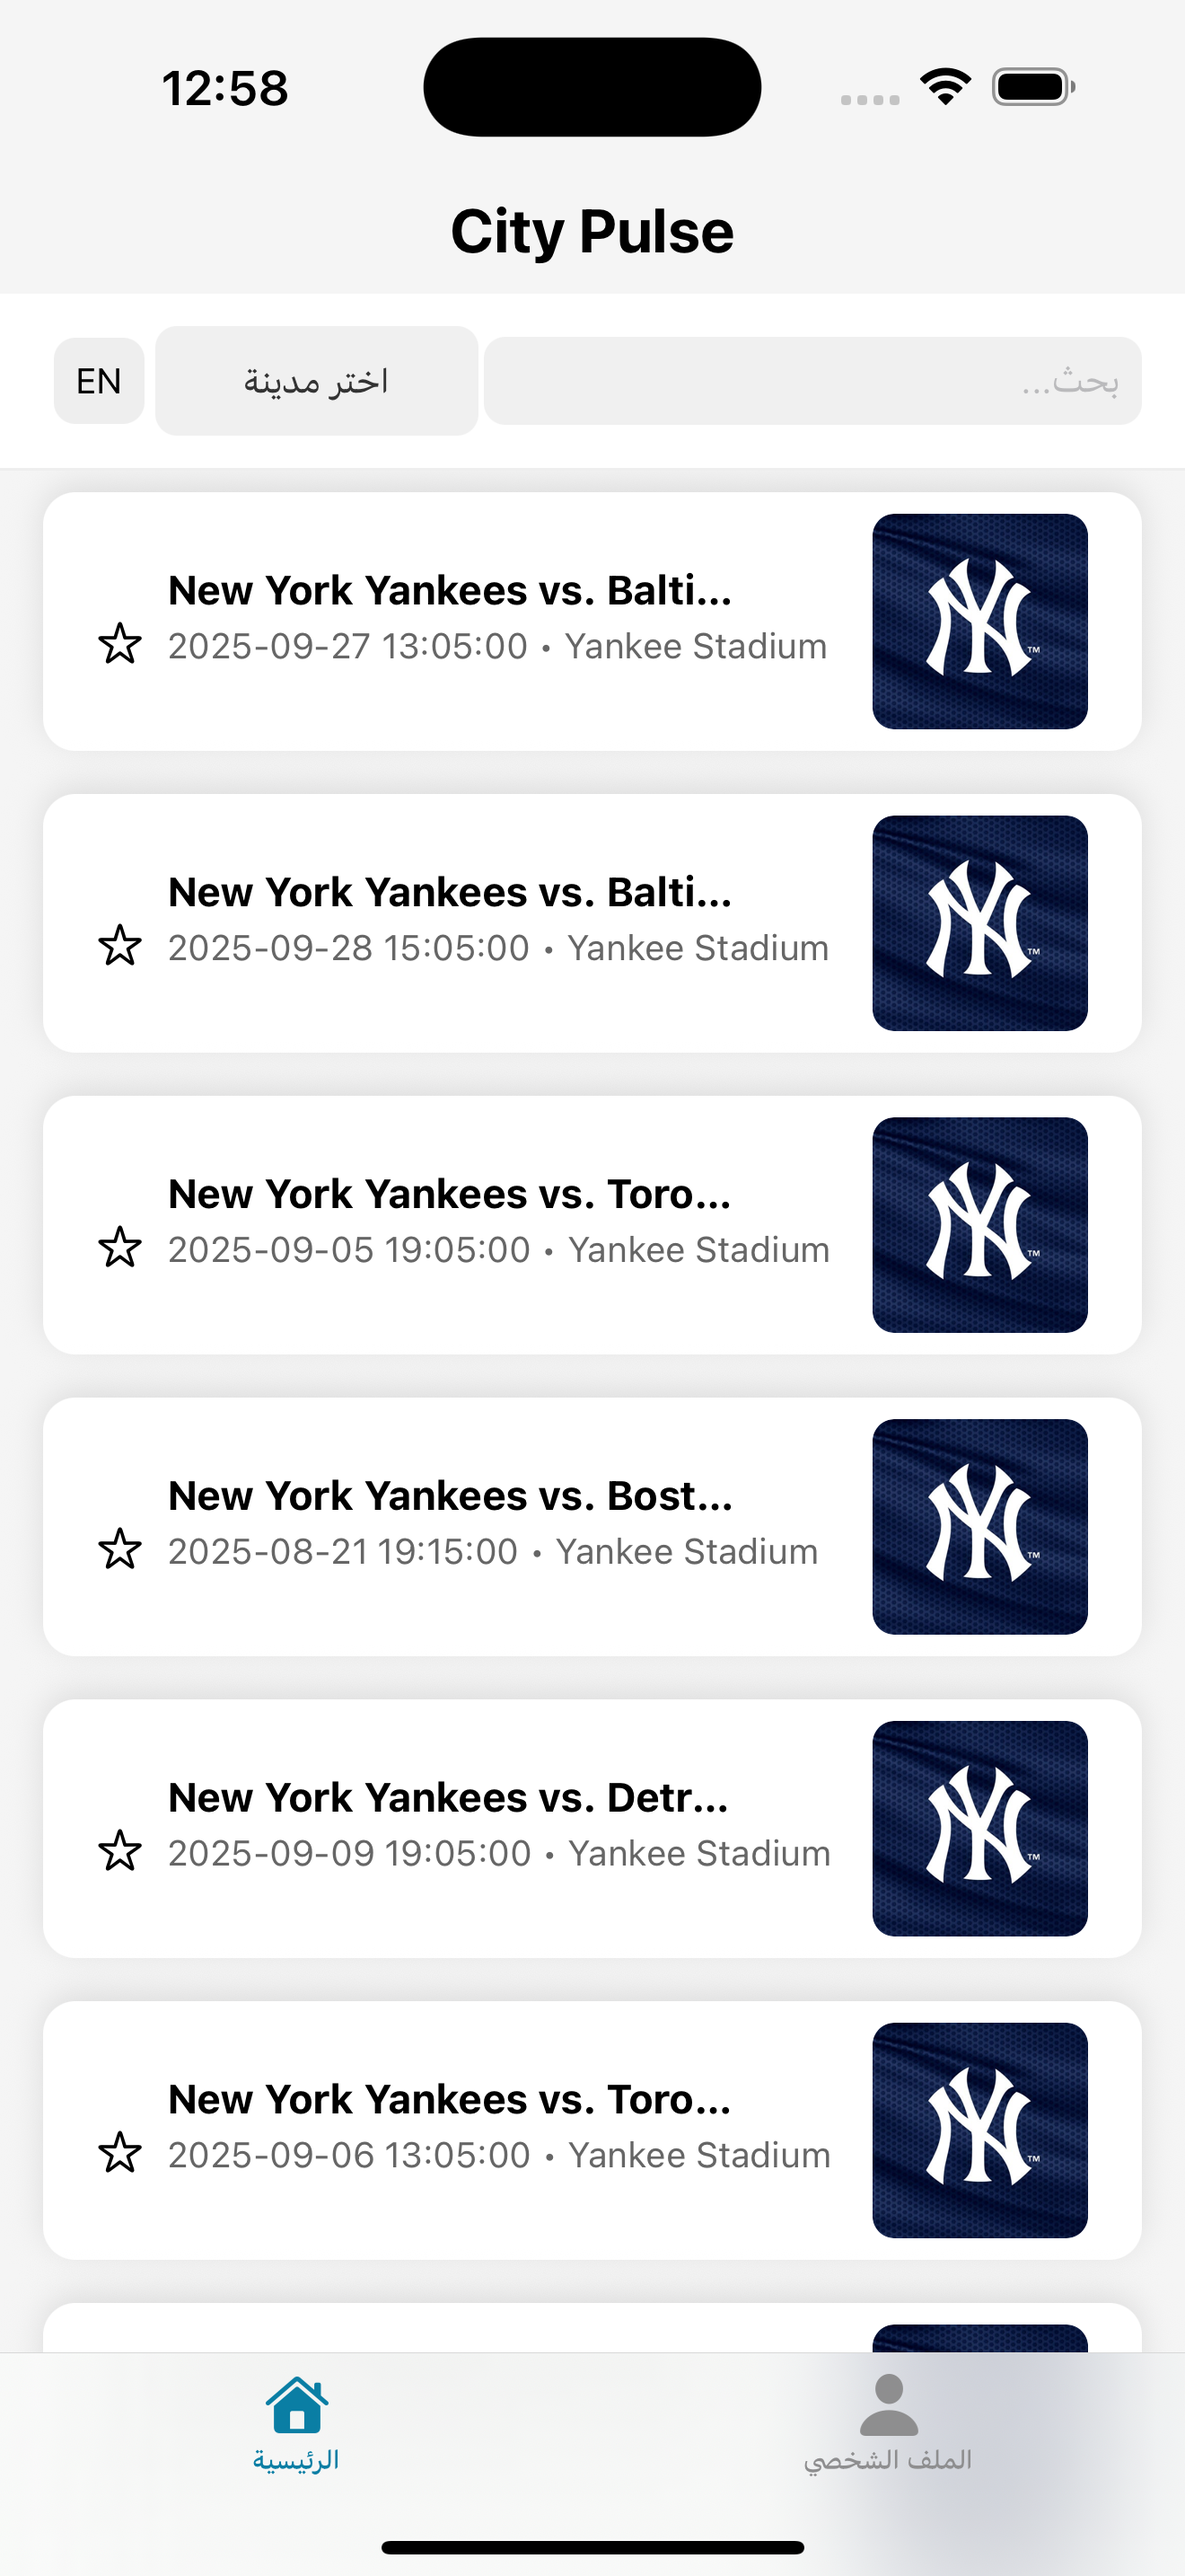
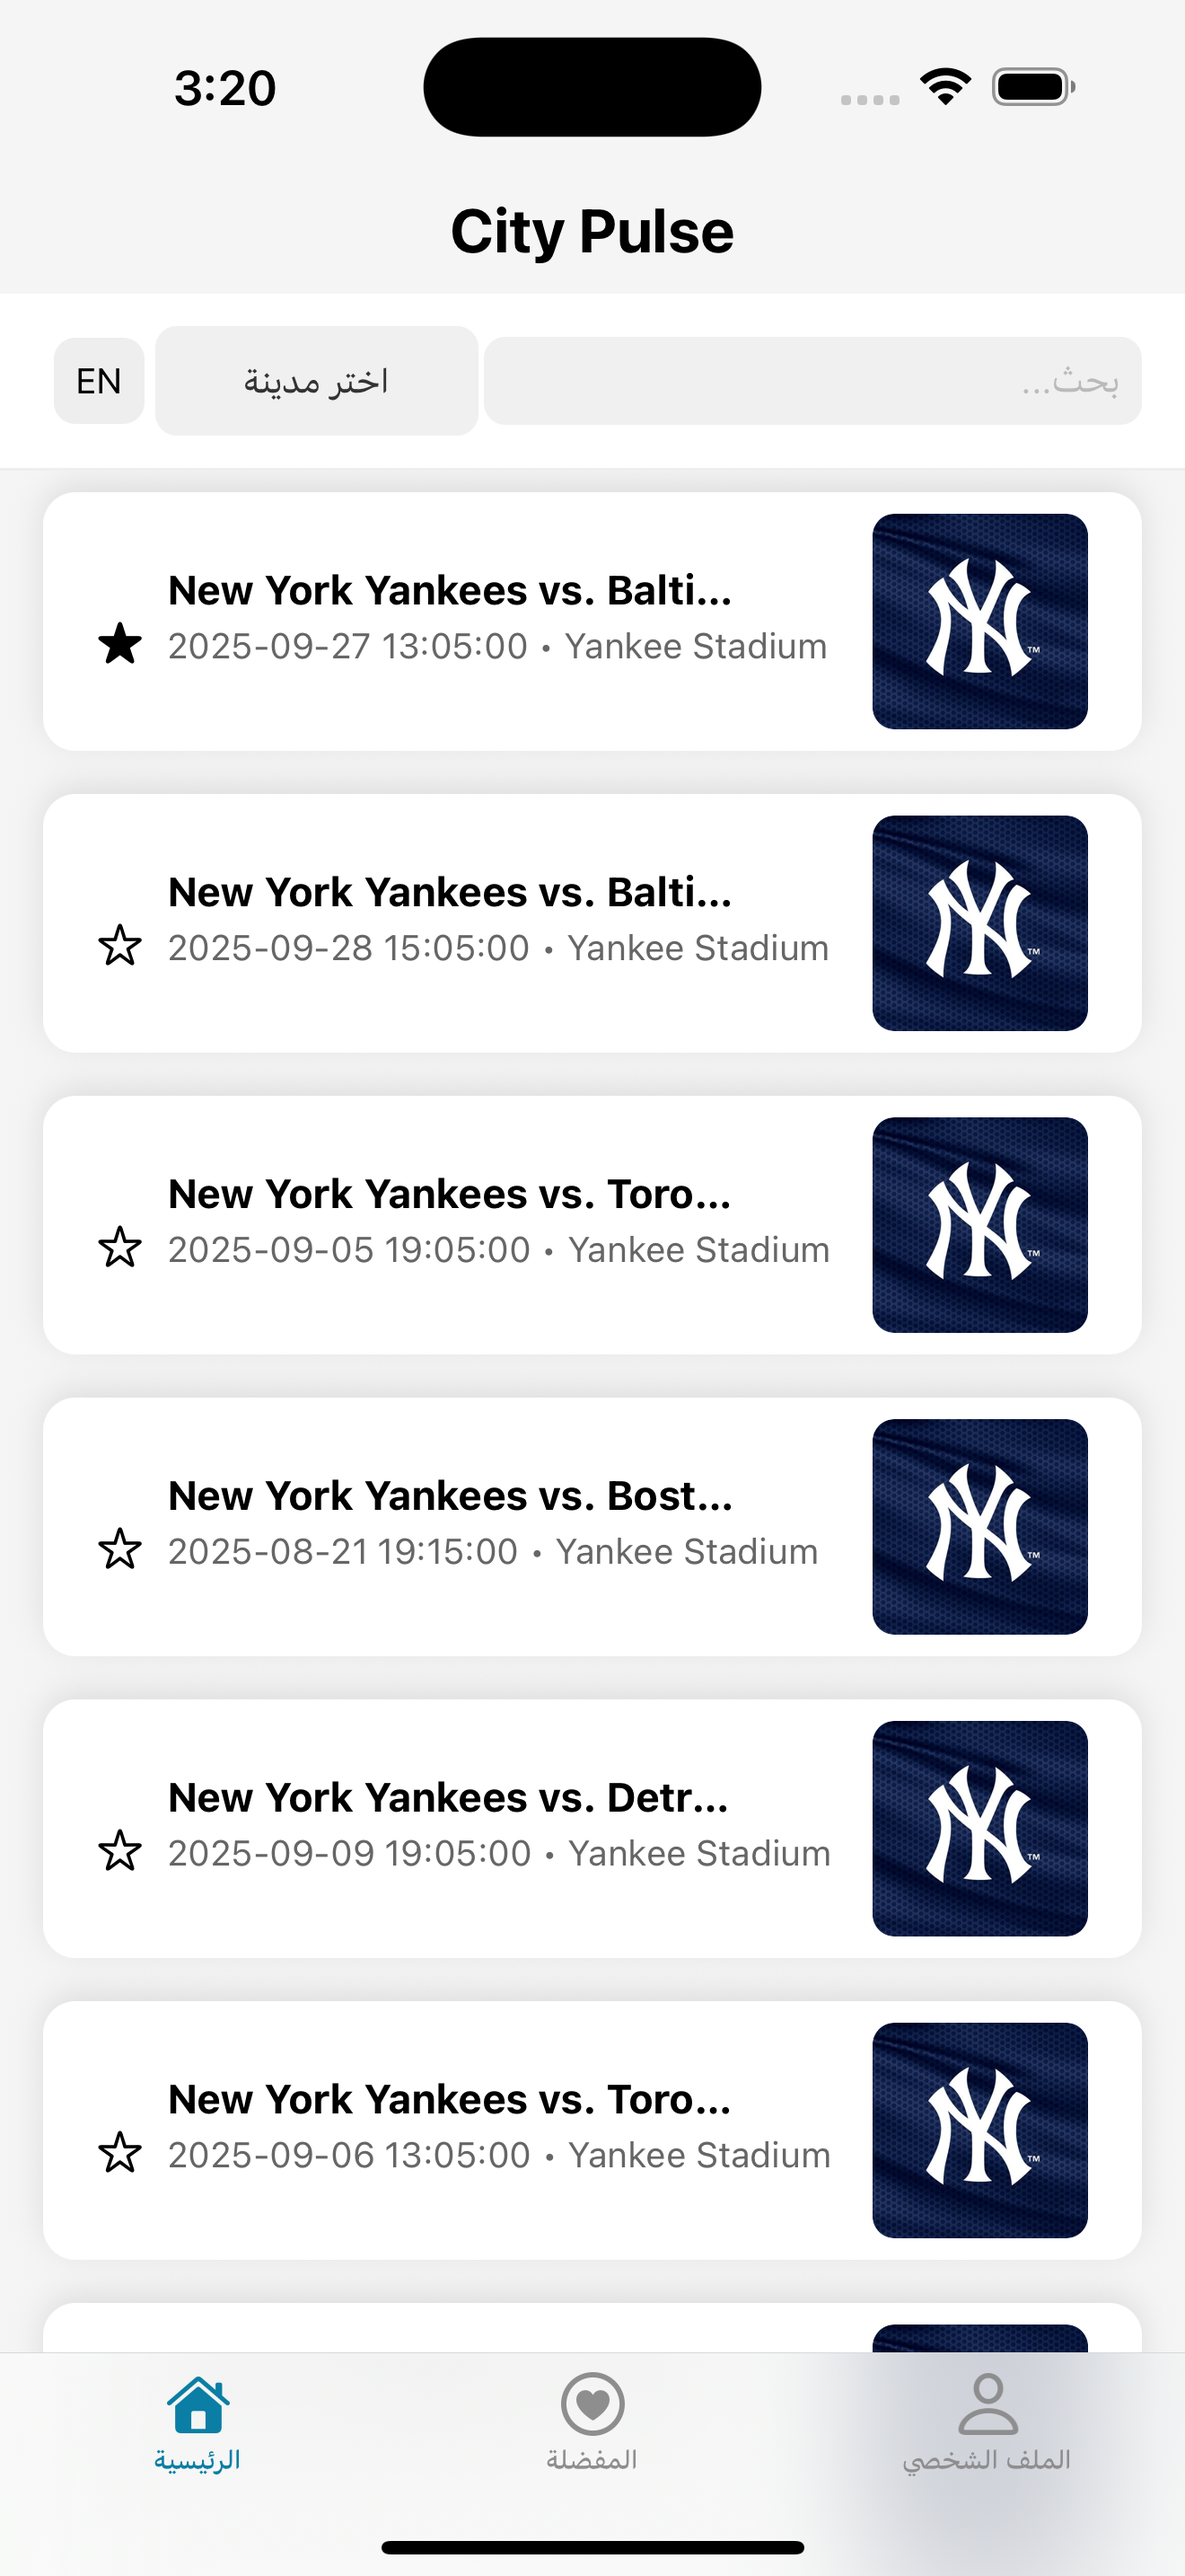
docs: updating the ReadMe file

diff --git a/app/(tabs)/favorites.tsx b/app/(tabs)/favorites.tsx
@@ -1,9 +1,9 @@
-import FavouriteEventsScreen from "../screens/FavouritesScreen";
+import FavoriteEventsScreen from "../screens/FavoritesScreen";
 
 export default function Favorites() {
   return (
     <>
-      <FavouriteEventsScreen />
+      <FavoriteEventsScreen />
     </>
   );
 }

diff --git a/README.md b/README.md
@@ -51,7 +51,7 @@ To make development less error prone TS has been used.
 ### 4-Optimization:
 to touch on this topic of optimization, the Home screen is designed to call the api on demand as the user scrolls and get 10 Events each time, append it to the previous ones.
 
-## Screenshots
+## Screenshots (Samples)
 ### 1-File structure
 ![file structure](screenshots/project-file-structure.png)
 
@@ -63,6 +63,9 @@ to touch on this topic of optimization, the Home screen is designed to call the 
 
 ### 4-Profile Screen
 ![Home Screen](screenshots/profile-screen.png)
+
+### 4-Favorites Screen
+![Home Screen](screenshots/favorites-screen.png)
 
 
 ### 4-Closing comments:
